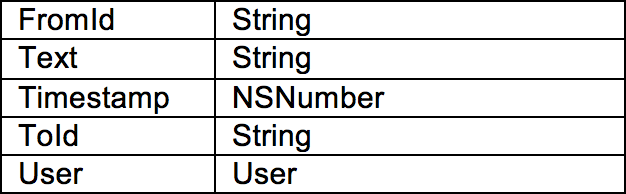
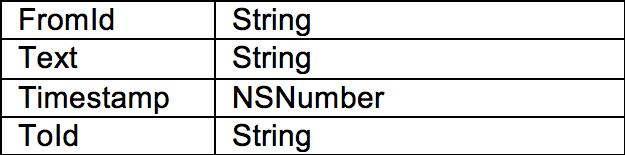
updated

Changed region(s): [[0.0, 0.0, 1.0, 1.0]]

diff --git a/REPORT.md b/REPORT.md
@@ -17,7 +17,7 @@ Deze klasse bevat de titel en subtitel voor een Annotation View op een bepaalde 
 ![screenshot](doc/annotation.png "Screenshot")
 
 #### 1.3 Message
-Deze klasse bevat alle onderdelen nodig om een bericht te identificeren van wie het is, naar wie het is verstuurd, op welk tijdstip het verzonden is en het berichtje zelf. Ook hier wordt de klasse gekoppeld aan de User klasse om informatie te krijgen over de gebruiker.
+Deze klasse bevat alle onderdelen nodig om een bericht te identificeren van wie het is, naar wie het is verstuurd, op welk tijdstip het verzonden is en het berichtje zelf. 
 ![screenshot](doc/message.png "Screenshot")
 
 ### 2.Controllers
